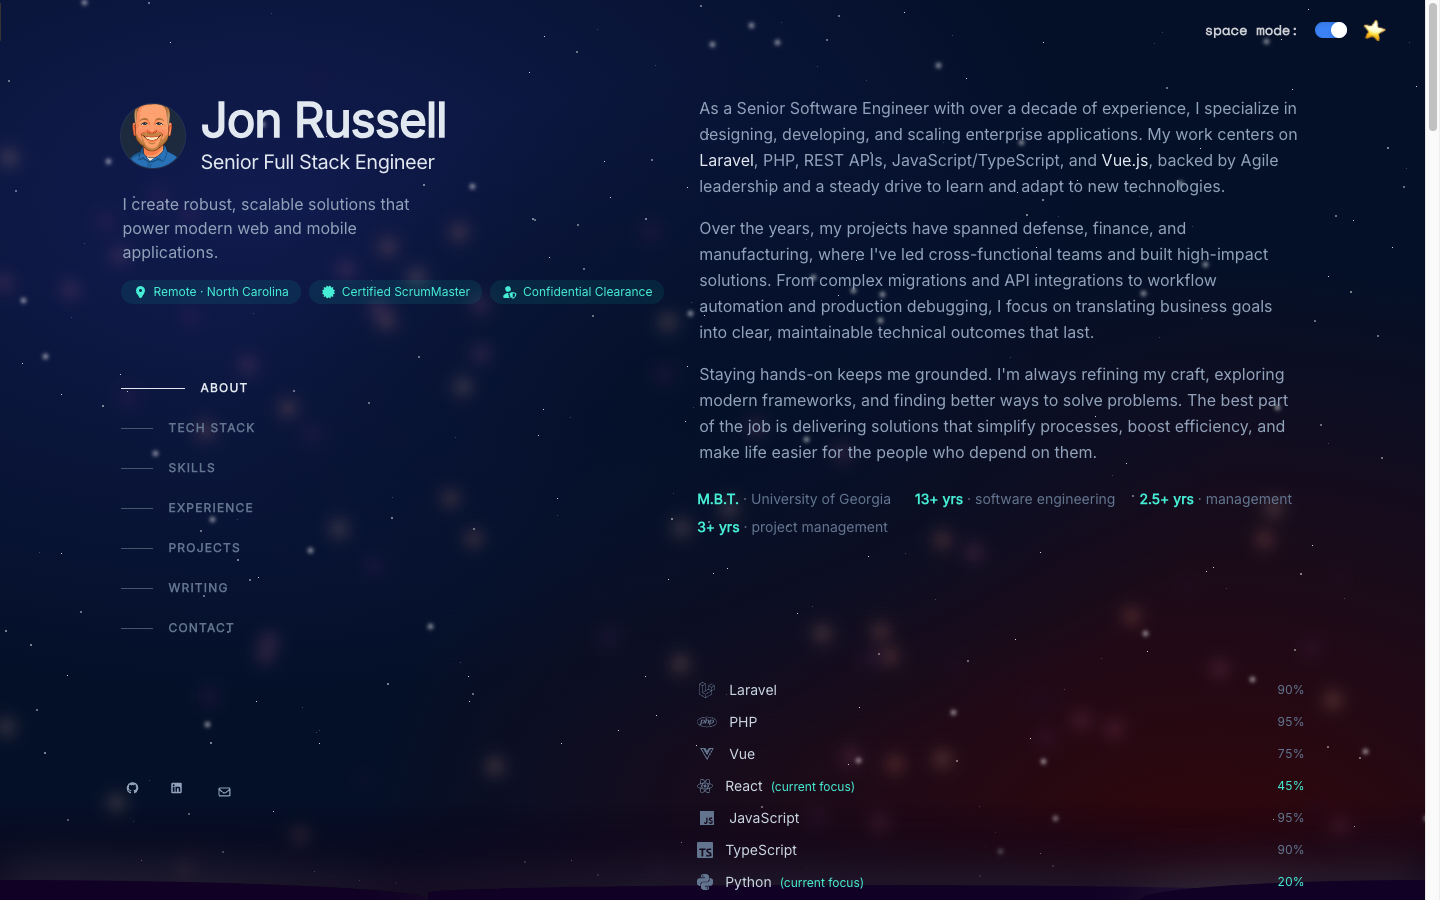
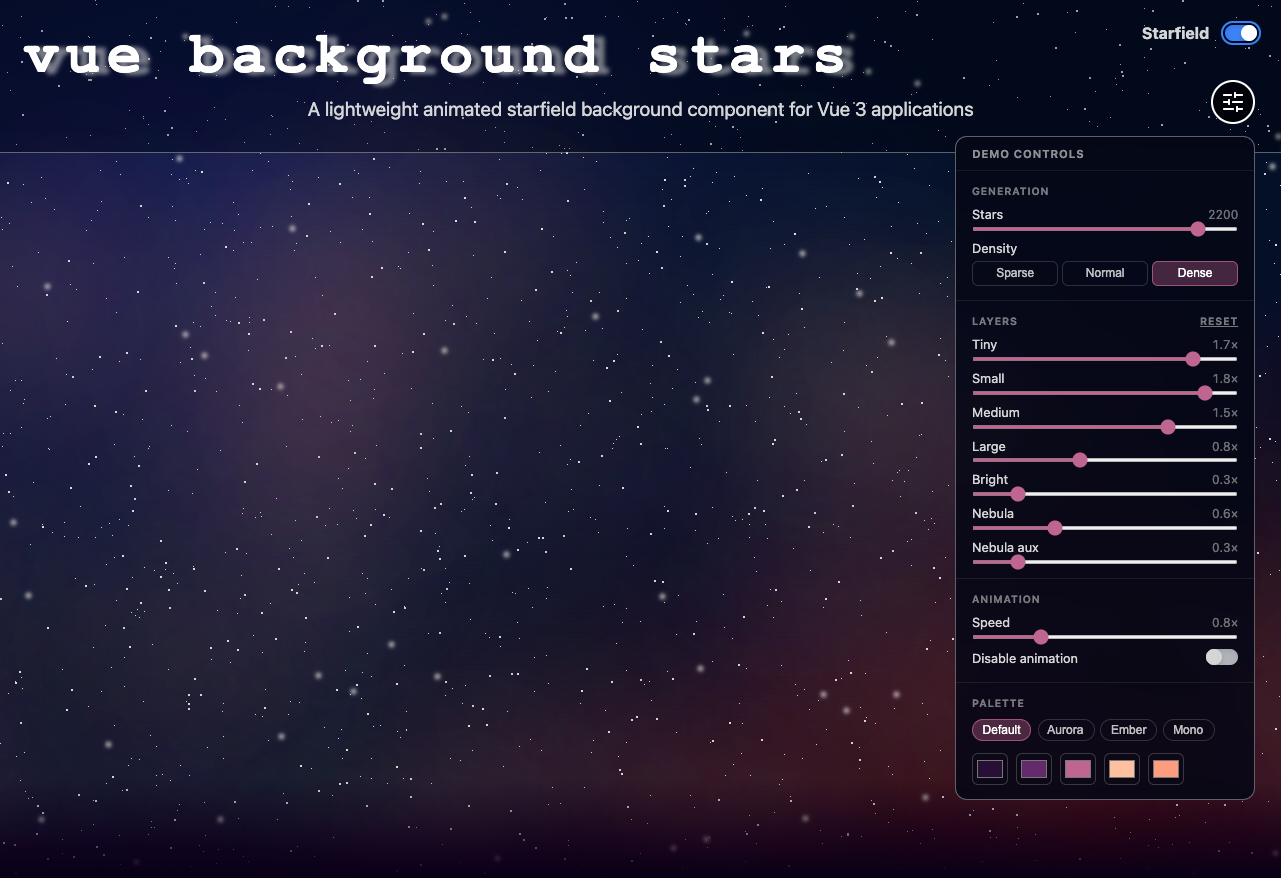
fix: update dependencies in pnpm-lock.yaml and improve ProjectModal styling

diff --git a/resources/js/components/modals/ProjectModal.vue b/resources/js/components/modals/ProjectModal.vue
@@ -60,7 +60,7 @@ const hasSidebar = computed(
     <UModal
         v-model:open="open"
         :ui="{
-            content: 'max-w-5xl',
+            content: 'max-w-4xl',
             // `shrink-0` — the header/footer are flex items of a max-height column; without it the
             // two-line title gets squeezed and bleeds over the scrolling body.
             header: 'items-start shrink-0 bg-slate-900/60',
@@ -69,8 +69,8 @@ const hasSidebar = computed(
         }"
     >
         <template #title>
-            <span class="block font-space-mono text-[0.65rem] tracking-[0.2em] text-primary uppercase">Project</span>
-            <span class="mt-1 block text-lg leading-tight font-bold text-slate-100 sm:text-xl">{{ project.title }}</span>
+            <span class="block font-space-mono text-[0.65rem] tracking-[0.2em] text-slate-500 uppercase">Project</span>
+            <span class="block text-lg leading-tight font-bold text-slate-100 sm:text-xl">{{ project.title }}</span>
         </template>
 
         <template #description>
@@ -82,7 +82,7 @@ const hasSidebar = computed(
             <template v-if="project.company || project.awards?.length">
                 <div class="flex flex-wrap items-center justify-between gap-x-6 gap-y-3">
                     <div v-if="project.company" class="min-w-0">
-                        <span class="block font-space-mono text-[0.6rem] tracking-[0.2em] text-slate-500 uppercase">Client</span>
+                        <span class="block font-space-mono text-[0.65rem] tracking-[0.2em] text-slate-500 uppercase">Company</span>
                         <ULink
                             v-if="project.company.link"
                             :href="project.company.link"
@@ -133,8 +133,8 @@ const hasSidebar = computed(
                         loop
                         :ui="{
                             item: 'basis-full',
-                            prev: 'start-3 sm:start-3 bg-slate-950/70 text-slate-200 ring-white/15 backdrop-blur hover:bg-slate-950',
-                            next: 'end-3 sm:end-3 bg-slate-950/70 text-slate-200 ring-white/15 backdrop-blur hover:bg-slate-950',
+                            prev: 'inset-s-3 sm:inset-s-3 bg-slate-950/70 text-slate-200 ring-white/15 backdrop-blur hover:bg-slate-950',
+                            next: 'inset-e-3 sm:inset-e-3 bg-slate-950/70 text-slate-200 ring-white/15 backdrop-blur hover:bg-slate-950',
                         }"
                         @select="activeIndex = $event"
                     >
@@ -149,10 +149,10 @@ const hasSidebar = computed(
                                 :alt="item.alt || item.title"
                                 :title="item.title"
                                 loading="lazy"
-                                class="aspect-video max-h-[46vh] w-full object-contain transition-transform duration-300 group-hover:scale-[1.015]"
+                                class="aspect-video max-h-[24vh] w-full object-contain transition-transform duration-300 group-hover:scale-[1.015]"
                             />
                             <span
-                                class="pointer-events-none absolute inset-0 flex items-end justify-center bg-gradient-to-t from-slate-950/80 to-transparent p-3 opacity-0 transition-opacity group-hover:opacity-100 group-focus-visible:opacity-100"
+                                class="pointer-events-none absolute inset-0 flex items-end justify-center bg-linear-to-t from-slate-950/80 to-transparent p-3 opacity-0 transition-opacity group-hover:opacity-100 group-focus-visible:opacity-100"
                             >
                                 <span class="inline-flex items-center gap-1.5 text-xs font-semibold text-slate-100">
                                     <UIcon name="i-lucide-maximize-2" class="h-3.5 w-3.5" />
@@ -164,7 +164,7 @@ const hasSidebar = computed(
 
                     <span
                         v-if="gallery.length > 1"
-                        class="pointer-events-none absolute end-3 top-3 rounded-full bg-slate-950/70 px-2.5 py-0.5 font-space-mono text-[0.65rem] text-slate-300 backdrop-blur"
+                        class="pointer-events-none absolute inset-e-3 top-3 rounded-full bg-slate-950/70 px-2.5 py-0.5 font-space-mono text-[0.65rem] text-slate-300 backdrop-blur"
                     >
                         {{ activeIndex + 1 }} / {{ gallery.length }}
                     </span>

diff --git a/resources/js/sections/AboutSection.vue b/resources/js/sections/AboutSection.vue
@@ -6,7 +6,8 @@ const highlights = [
     { value: '13+ yrs', label: 'Software engineering' },
     { value: '3+ yrs', label: 'Project Management' },
     { value: '2.5+ yrs', label: 'Management' },
-    // { value: 'Master of Internet Techology', label: 'University of Georgia' },
+    { value: '6 yrs', label: 'Certified ScrumMaster' },
+    { value: 'Master of Internet Techology', label: 'University of Georgia' },
 ];
 </script>
 
@@ -52,24 +53,25 @@ const highlights = [
             </div>
 
             <p class="my-4 text-base">
-                I've always preferred staying hands-on, exploring new frameworks and technologies, and seeing what's coming next. To me, the most
-                satisfying part of engineering is delivering solutions that simplify processes, improve efficiency, and make life easier for the
-                people who depend on them, while building something I can genuinely be proud of.
+                I've preferred staying hands-on, exploring new frameworks and technologies, and seeing what's coming next. To me, the most satisfying
+                part of engineering is delivering solutions that simplify processes, improve efficiency, and make life easier for the people who
+                depend on them, while building something I can genuinely be proud of.
             </p>
 
-            <ul class="flex flex-wrap justify-center gap-x-3 gap-y-2 pt-2" aria-label="Highlights">
+            <ul class="flex flex-wrap items-center justify-center gap-x-6 gap-y-2 pt-2" aria-label="Highlights">
                 <li v-for="highlight in highlights" :key="highlight.label">
-                    <span class="font-space-mono text-base font-semibold text-slate-400">
+                    <span class="text-base font-semibold text-slate-400">
                         {{ highlight.value }}
                     </span>
-                    <span class="text-sm text-slate-100"> · {{ highlight.label }}</span>
+                    <span class="mx-1.5 text-sm text-slate-100">·</span>
+                    <span class="text-sm text-slate-100">{{ highlight.label }}</span>
                 </li>
-                <li>
-                    <span class="font-space-mono text-base font-semibold text-slate-400">Master of Internet Techology</span>
-                    <span class="text-sm text-slate-100"> · University of Georgia</span>
-                    <!-- <span class="mx-2 text-sm text-slate-100">·</span> -->
-                    <!-- <img src="/images/uga-logo.png" class="mt-[2px] h-[17px]" /> -->
-                </li>
+                <!-- <li class="flex flex-row items-center justify-center">
+                    <span class="text-base font-semibold text-slate-400">Master of Internet Techology</span>
+                    <span class="mx-1.5 text-sm text-slate-100">·</span>
+                    <span class="text-sm text-slate-100">University of Georgia</span>
+                    <img src="/images/icons/georgia-bulldogs-logo-icon.webp" class="ms-2 h-3.5" />
+                </li> -->
             </ul>
         </SectionPanel>
     </section>

diff --git a/resources/js/layout/Header.vue b/resources/js/layout/Header.vue
@@ -4,7 +4,6 @@ import Socials from '@/js/layout/Socials.vue';
 
 const credentials = [
     { icon: 'map-pin', label: 'Remote · North Carolina' },
-    // { icon: 'id-badge', label: 'Certified ScrumMaster' },
     { icon: 'user-shield', label: 'DoD Confidential Security clearance' },
 ];
 </script>
@@ -14,7 +13,7 @@ const credentials = [
         <div class="flex flex-col items-center lg:items-start">
             <div class="flex items-center gap-4">
                 <div class="absolute z-30 mt-1 h-22 w-20 rounded-lg border-2 border-brand-red bg-white/30"></div>
-                <img src="/images/profile-avatar.svg" alt="Jon Russell" class="z-40 aspect-[1021/1501] w-20 shrink-0 object-cover" />
+                <img src="/images/profile-avatar.svg" alt="Jon Russell" class="z-40 aspect-1021/1501 w-20 shrink-0 object-cover" />
                 <div>
                     <h1 class="pt-2 text-4xl font-bold tracking-tight text-slate-100 sm:text-5xl">
                         <a href="/">Jon Russell</a>
@@ -27,7 +26,7 @@ const credentials = [
             <p class="mt-4 max-w-xs leading-normal text-slate-200">
                 Building robust, scalable solutions for modern web and mobile applications today.
             </p>
-            <p class="my-2 max-w-xs leading-normal text-slate-200">Saving the world tomorrow.</p>
+            <p class="mt-2 mb-4 max-w-xs leading-normal text-slate-200">Saving the world tomorrow.</p>
 
             <ul class="mt-6 flex flex-col gap-3 sm:flex-row lg:flex-col" aria-label="Credentials">
                 <li v-for="credential in credentials" :key="credential.label">

diff --git a/resources/js/layout/Footer.vue b/resources/js/layout/Footer.vue
@@ -44,14 +44,6 @@ const currentYear = () => {
                 rel="noreferrer noopener"
                 aria-label="Space Mono (opens in a new tab)"
                 >Space Mono</a
-            >,
-            <a
-                href="https://github.com/DylanYoungKoto/Stack-Sans"
-                :class="linkClass"
-                target="_blank"
-                rel="noreferrer noopener"
-                aria-label="Stack Sans Notch (opens in a new tab)"
-                >Stack Sans Notch</a
             >, and
             <a
                 href="https://jenskutilek.github.io/homecomputer-fonts/documentation/demo-sixtyfour.html"
@@ -60,9 +52,9 @@ const currentYear = () => {
                 rel="noreferrer noopener"
                 aria-label="SixtyFour (opens in a new tab)"
                 >SixtyFour</a
-            >. Flip on space mode at the top for a starfield powered by
+            >. Flip on space mode with the toggle in the corner for a starfield powered by
             <Link href="https://www.npmjs.com/package/@russellio/vue-background-stars" :class="linkClass">@russellio/vue-background-stars</Link>, an
-            open source package for Vue 3 created by yours truly.
+            open source package for Vue 3 I created.
         </p>
         <p class="text-center">&copy; Copyright {{ currentYear() }}</p>
     </footer>

diff --git a/resources/js/sections/TechStackSection.vue b/resources/js/sections/TechStackSection.vue
@@ -9,7 +9,7 @@ defineProps<{
 </script>
 
 <template>
-    <section id="tech-stack" class="mb-16 scroll-mt-16 md:mb-24 lg:scroll-mt-36" aria-label="Primary tech stack">
+    <section id="tech-stack" aria-label="Primary tech stack" class="mb-16 scroll-mt-16 md:mb-24 lg:mt-0 lg:mb-20 lg:scroll-mt-20 lg:pt-0">
         <SectionHeading title="Tech Stack" />
 
         <SectionPanel>
